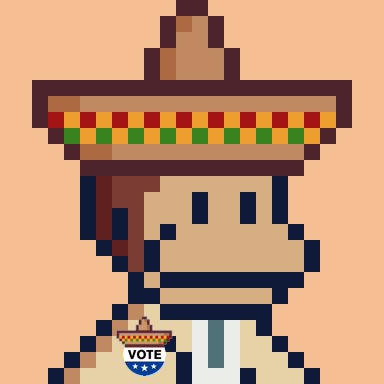
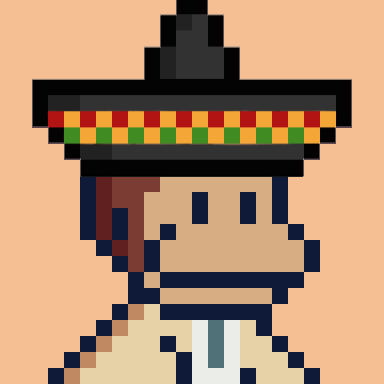
added black brero

Changed region(s): [[0.0625, 0.0, 0.9375, 0.4688], [0.2812, 0.8125, 0.4688, 1.0]]

diff --git a/main.py b/main.py
@@ -26,7 +26,7 @@ pfp_atts = json.load(data)
 
 # list of the various outfits you want to offer. these should match the filename on the outfit pngs
 
-outfits = ["suit", "blue", "vote"]
+outfits = ["suit", "blue", "vote", "pink","black"]
 
 # Search for the pfp id in the JSON dictionary and return the image URL associated with that id. You'll need to update the keys to match what's in your JSON delattr
 
